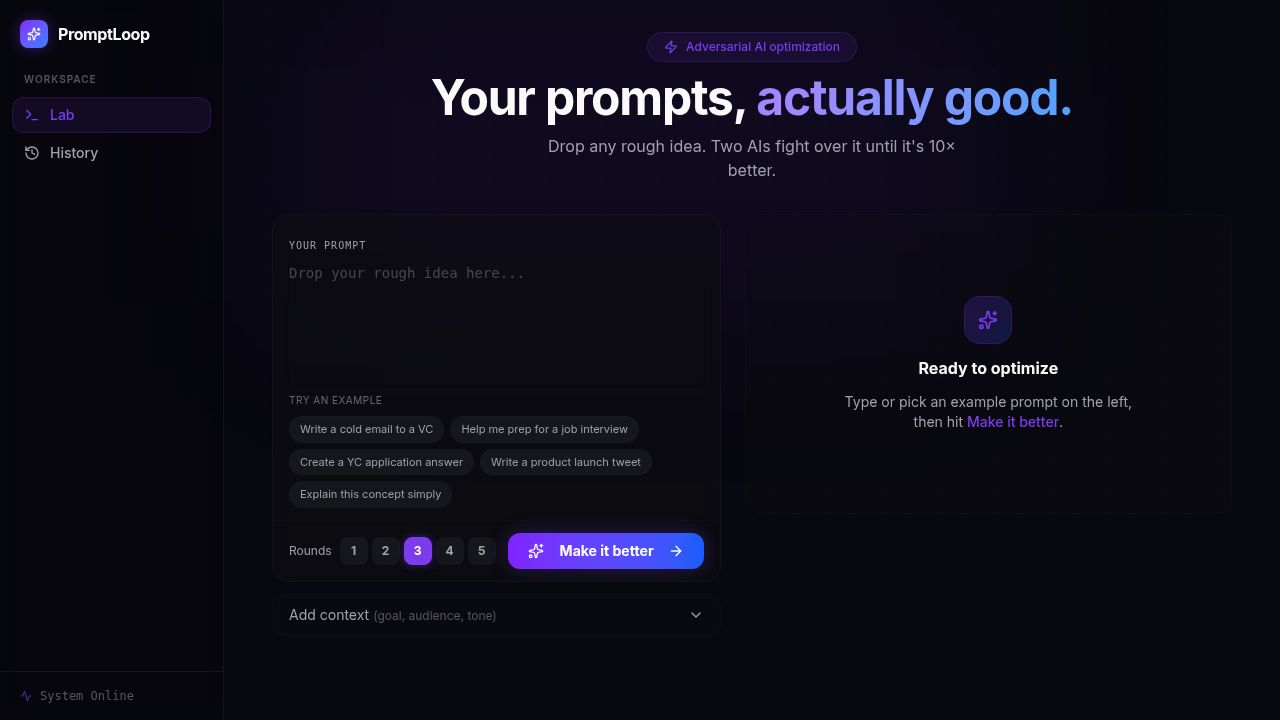
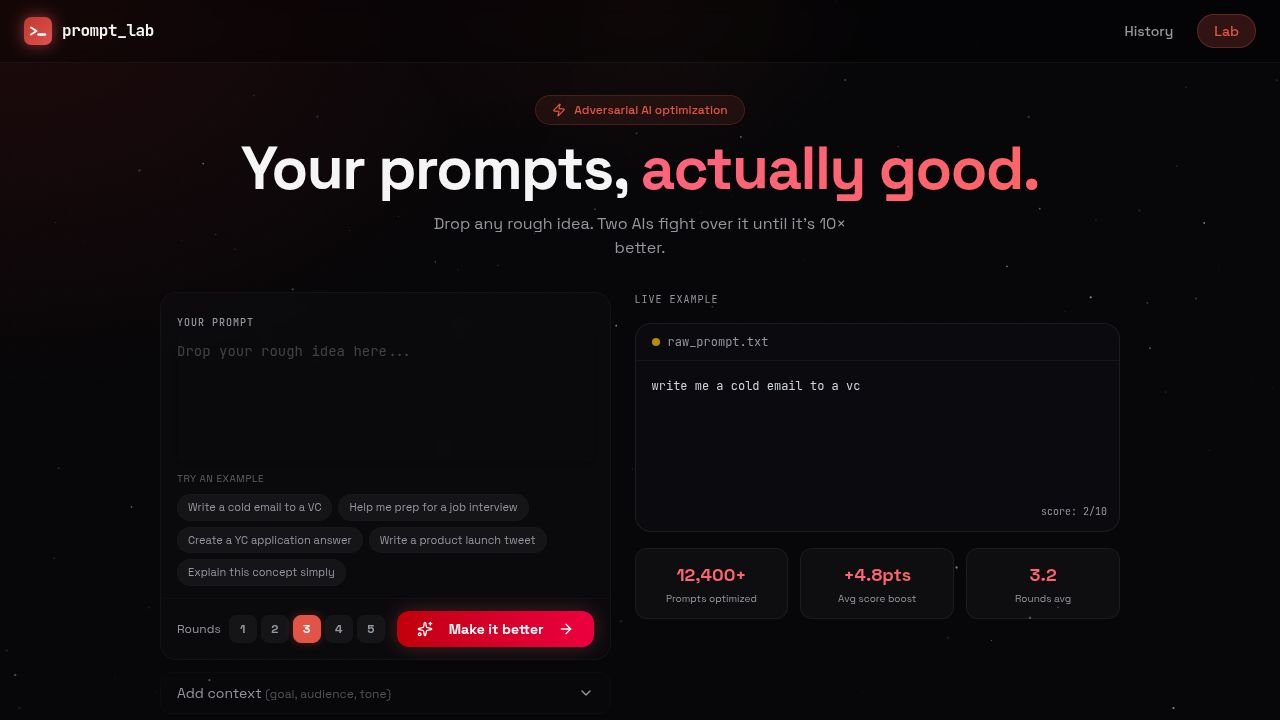
Update website theme with vibrant coral accents and a starfield background
Integrates a starfield background, updates color palettes to coral/red, changes font to Space Grotesk, and modifies various UI elements in `layout.tsx` and `home.tsx`.

Replit-Commit-Author: Agent
Replit-Commit-Session-Id: 5fdac1b4-e5b7-424d-95d1-2d4e8ffe3600
Replit-Commit-Checkpoint-Type: full_checkpoint
Replit-Commit-Event-Id: 763ea3cc-03e4-4620-966b-8acb2bd106bd
Replit-Commit-Screenshot-Url: https://storage.googleapis.com/screenshot-production-us-central1/af58edff-9f00-4c62-86c2-35f72a28d383/5fdac1b4-e5b7-424d-95d1-2d4e8ffe3600/b1TVNCj
Replit-Helium-Checkpoint-Created: true

diff --git a/artifacts/promptloop/src/pages/home.tsx b/artifacts/promptloop/src/pages/home.tsx
@@ -153,7 +153,7 @@ function ScoreRing({ score }: { score: number }) {
 
 function fireConfetti() {
   const end = Date.now() + 1200;
-  const colors = ["#0d9488", "#22d3ee", "#5eead4", "#67e8f9", "#ffffff"];
+  const colors = ["#e05252", "#c0392b", "#ff7b7b", "#ff4444", "#ffffff"];
   (function frame() {
     confetti({ particleCount: 3, angle: 60, spread: 55, origin: { x: 0 }, colors });
     confetti({ particleCount: 3, angle: 120, spread: 55, origin: { x: 1 }, colors });
@@ -303,9 +303,9 @@ export function Home() {
           <Zap className="w-3.5 h-3.5 text-primary" />
           <span className="text-xs text-primary font-medium">Adversarial AI optimization</span>
         </div>
-        <h1 className="text-4xl md:text-5xl font-black tracking-tight">
+        <h1 className="text-5xl md:text-6xl font-black tracking-tight leading-[1.05]">
           Your prompts,{" "}
-          <span className="bg-gradient-to-r from-teal-400 to-cyan-400 bg-clip-text text-transparent">
+          <span className="bg-gradient-to-r from-rose-400 to-red-400 bg-clip-text text-transparent">
             actually good.
           </span>
         </h1>
@@ -364,7 +364,7 @@ export function Home() {
                           className={cn(
                             "w-7 h-7 rounded-lg text-xs font-bold transition-all border",
                             watchRounds === n
-                              ? "bg-primary text-primary-foreground border-primary shadow-[0_0_10px_rgba(13,148,136,0.4)]"
+                              ? "bg-primary text-primary-foreground border-primary shadow-[0_0_10px_rgba(192,57,43,0.4)]"
                               : "bg-secondary/50 text-muted-foreground border-border/30 hover:bg-secondary"
                           )}
                         >
@@ -374,7 +374,7 @@ export function Home() {
                     </div>
                   </div>
                   <Button type="submit" disabled={isRunning}
-                    className="bg-gradient-to-r from-teal-600 to-cyan-500 hover:from-teal-500 hover:to-cyan-400 text-white font-bold text-sm px-5 h-9 rounded-xl shadow-[0_0_20px_rgba(20,184,166,0.3)] hover:shadow-[0_0_25px_rgba(20,184,166,0.5)] transition-all border-0"
+                    className="bg-gradient-to-r from-red-700 to-rose-600 hover:from-red-600 hover:to-rose-500 text-white font-bold text-sm px-5 h-9 rounded-xl shadow-[0_0_20px_rgba(224,82,82,0.3)] hover:shadow-[0_0_25px_rgba(224,82,82,0.5)] transition-all border-0"
                   >
                     {isRunning ? <><Loader2 className="w-3.5 h-3.5 mr-2 animate-spin" />Running...</> : <><Sparkles className="w-3.5 h-3.5 mr-2" />Make it better<ArrowRight className="w-3 h-3 ml-1.5" /></>}
                   </Button>
@@ -430,9 +430,9 @@ export function Home() {
 
           {/* Loading */}
           {isRunning && (
-            <Card className="border-primary/30 shadow-[0_0_40px_rgba(13,148,136,0.12)] relative overflow-hidden bg-card/60">
+            <Card className="border-primary/30 shadow-[0_0_40px_rgba(192,57,43,0.12)] relative overflow-hidden bg-card/60">
               <div className="absolute top-0 left-0 w-full h-0.5 bg-border/30">
-                <motion.div className="h-full bg-gradient-to-r from-teal-500 to-cyan-400"
+                <motion.div className="h-full bg-gradient-to-r from-rose-500 to-red-400"
                   animate={{ width: `${progressPct}%` }} transition={{ duration: 0.8, ease: "easeInOut" }} />
               </div>
               <CardContent className="pt-8 pb-6 flex flex-col items-center space-y-5 text-center">
@@ -495,8 +495,8 @@ export function Home() {
               <motion.div initial={{ opacity: 0, y: 16 }} animate={{ opacity: 1, y: 0 }} className="space-y-4">
 
                 {/* Final prompt card */}
-                <Card className="border-primary/40 shadow-[0_0_50px_rgba(13,148,136,0.15)] overflow-hidden bg-card">
-                  <div className="bg-gradient-to-r from-teal-500/10 to-cyan-500/10 border-b border-primary/20 px-4 py-3 flex items-center justify-between">
+                <Card className="border-primary/40 shadow-[0_0_50px_rgba(192,57,43,0.15)] overflow-hidden bg-card">
+                  <div className="bg-gradient-to-r from-rose-500/10 to-red-500/10 border-b border-primary/20 px-4 py-3 flex items-center justify-between">
                     <div className="flex items-center gap-2">
                       <Sparkles className="w-4 h-4 text-primary" />
                       <span className="font-mono font-bold text-primary text-sm">OPTIMIZED PROMPT</span>
@@ -599,7 +599,7 @@ export function Home() {
                   { label: "Rounds avg", value: "3.2" },
                 ].map(stat => (
                   <div key={stat.label} className="bg-white/[0.03] border border-white/[0.06] rounded-xl px-3 py-3">
-                    <p className="text-lg font-bold bg-gradient-to-r from-teal-400 to-cyan-400 bg-clip-text text-transparent">{stat.value}</p>
+                    <p className="text-lg font-bold bg-gradient-to-r from-rose-400 to-red-400 bg-clip-text text-transparent">{stat.value}</p>
                     <p className="text-[10px] text-muted-foreground mt-0.5">{stat.label}</p>
                   </div>
                 ))}

diff --git a/artifacts/promptloop/src/components/layout.tsx b/artifacts/promptloop/src/components/layout.tsx
@@ -1,26 +1,85 @@
+import { useEffect, useRef } from "react";
 import { Link, useLocation } from "wouter";
-import { Sparkles } from "lucide-react";
 import { cn } from "@/lib/utils";
+
+function StarField() {
+  const canvasRef = useRef<HTMLCanvasElement>(null);
+
+  useEffect(() => {
+    const canvas = canvasRef.current;
+    if (!canvas) return;
+    const ctx = canvas.getContext("2d");
+    if (!ctx) return;
+
+    const resize = () => {
+      canvas.width = window.innerWidth;
+      canvas.height = window.innerHeight;
+    };
+    resize();
+    window.addEventListener("resize", resize);
+
+    const stars = Array.from({ length: 180 }, () => ({
+      x: Math.random(),
+      y: Math.random(),
+      r: Math.random() * 1.1 + 0.2,
+      baseOpacity: Math.random() * 0.5 + 0.08,
+      phase: Math.random() * Math.PI * 2,
+      speed: Math.random() * 0.4 + 0.15,
+    }));
+
+    let raf: number;
+    let t = 0;
+
+    const draw = () => {
+      ctx.clearRect(0, 0, canvas.width, canvas.height);
+      t += 0.016;
+      for (const s of stars) {
+        const opacity = s.baseOpacity * (0.55 + 0.45 * Math.sin(t * s.speed + s.phase));
+        ctx.beginPath();
+        ctx.arc(s.x * canvas.width, s.y * canvas.height, s.r, 0, Math.PI * 2);
+        ctx.fillStyle = `rgba(255,255,255,${opacity.toFixed(3)})`;
+        ctx.fill();
+      }
+      raf = requestAnimationFrame(draw);
+    };
+
+    draw();
+    return () => {
+      window.removeEventListener("resize", resize);
+      cancelAnimationFrame(raf);
+    };
+  }, []);
+
+  return <canvas ref={canvasRef} className="fixed inset-0 pointer-events-none z-0" />;
+}
 
 export function Layout({ children }: { children: React.ReactNode }) {
   const [location] = useLocation();
 
   return (
-    <div className="flex flex-col h-screen w-full bg-[#080810] overflow-hidden text-foreground">
-      {/* Ambient glow */}
-      <div className="fixed top-0 left-1/2 -translate-x-1/2 w-[700px] h-[300px] bg-teal-500/8 blur-[100px] pointer-events-none z-0" />
+    <div className="flex flex-col h-screen w-full bg-[#070709] overflow-hidden text-foreground">
+      <StarField />
+
+      {/* Maroon radial glow — top left like OpenClaw */}
+      <div className="fixed top-0 left-0 w-[600px] h-[400px] pointer-events-none z-0"
+        style={{ background: "radial-gradient(ellipse at top left, rgba(192,30,30,0.13) 0%, transparent 70%)" }} />
+
+      {/* Subtle center glow */}
+      <div className="fixed top-0 left-1/2 -translate-x-1/2 w-[500px] h-[200px] pointer-events-none z-0"
+        style={{ background: "radial-gradient(ellipse at top, rgba(220,80,60,0.07) 0%, transparent 70%)" }} />
 
       {/* Top Nav */}
-      <header className="relative z-10 flex items-center justify-between px-6 py-3.5 border-b border-white/[0.06] bg-black/20 backdrop-blur-sm shrink-0">
+      <header className="relative z-10 flex items-center justify-between px-6 py-3.5 border-b border-white/[0.05] bg-black/30 backdrop-blur-sm shrink-0">
         <Link href="/" className="flex items-center gap-2.5">
-          <svg width="28" height="28" viewBox="0 0 28 28" fill="none" xmlns="http://www.w3.org/2000/svg" className="drop-shadow-[0_0_8px_rgba(20,184,166,0.5)]">
-            <rect width="28" height="28" rx="7" fill="url(#logoGrad)"/>
-            <path d="M7 10.5L12.5 14L7 17.5" stroke="white" strokeWidth="2" strokeLinecap="round" strokeLinejoin="round"/>
-            <path d="M14.5 17.5H21" stroke="white" strokeWidth="2.5" strokeLinecap="round"/>
+          <svg width="28" height="28" viewBox="0 0 28 28" fill="none" xmlns="http://www.w3.org/2000/svg"
+            className="drop-shadow-[0_0_8px_rgba(224,82,82,0.6)]">
+            <rect width="28" height="28" rx="7" fill="url(#logoGrad)" />
+            <path d="M7 10.5L12.5 14L7 17.5" stroke="white" strokeWidth="2" strokeLinecap="round" strokeLinejoin="round" />
+            <path d="M14.5 17.5H21" stroke="white" strokeWidth="2.5" strokeLinecap="round" />
             <defs>
               <linearGradient id="logoGrad" x1="0" y1="0" x2="28" y2="28" gradientUnits="userSpaceOnUse">
-                <stop offset="0%" stopColor="#0d9488"/>
-                <stop offset="100%" stopColor="#22d3ee"/>
+                <stop offset="0%" stopColor="#c0392b" />
+                <stop offset="100%" stopColor="#e05252" />
               </linearGradient>
             </defs>
           </svg>
@@ -48,7 +107,7 @@ export function Layout({ children }: { children: React.ReactNode }) {
       </header>
 
       {/* Grid overlay */}
-      <div className="fixed inset-0 pointer-events-none opacity-[0.02] z-0"
+      <div className="fixed inset-0 pointer-events-none opacity-[0.018] z-0"
         style={{ backgroundImage: "radial-gradient(hsl(var(--foreground)) 1px, transparent 1px)", backgroundSize: "28px 28px" }} />
 
       {/* Page content */}

diff --git a/artifacts/promptloop/src/index.css b/artifacts/promptloop/src/index.css
@@ -73,10 +73,10 @@
   --elevate-1: rgba(255,255,255, .04);
   --elevate-2: rgba(255,255,255, .09);
 
-  /* Deep dark cockpit vibe */
-  --background: 240 10% 4%;
-  --foreground: 0 0% 98%;
-  --border: 240 10% 12%;
+  /* Deep black — OpenClaw inspired */
+  --background: 220 8% 3%;
+  --foreground: 0 0% 96%;
+  --border: 220 8% 11%;
   
   --card: 240 10% 6%;
   --card-foreground: 0 0% 98%;
@@ -86,41 +86,41 @@
   --popover-foreground: 0 0% 98%;
   --popover-border: 240 10% 15%;
 
-  /* Teal/cyan lab palette */
-  --primary: 173 80% 42%;
+  /* Coral-red bold palette */
+  --primary: 5 72% 58%;
   --primary-foreground: 0 0% 100%;
   
-  --secondary: 240 10% 15%;
-  --secondary-foreground: 0 0% 98%;
+  --secondary: 220 8% 13%;
+  --secondary-foreground: 0 0% 96%;
 
-  --muted: 240 10% 12%;
-  --muted-foreground: 240 5% 65%;
+  --muted: 220 8% 10%;
+  --muted-foreground: 220 5% 60%;
 
-  --accent: 173 80% 42%;
+  --accent: 5 72% 58%;
   --accent-foreground: 0 0% 100%;
 
   --destructive: 0 62.8% 30.6%;
   --destructive-foreground: 0 0% 98%;
 
-  --input: 240 10% 15%;
-  --ring: 173 80% 42%;
+  --input: 220 8% 13%;
+  --ring: 5 72% 58%;
   
-  --sidebar: 240 10% 6%;
-  --sidebar-foreground: 0 0% 98%;
-  --sidebar-border: 240 10% 12%;
-  --sidebar-primary: 173 80% 42%;
+  --sidebar: 220 8% 4%;
+  --sidebar-foreground: 0 0% 96%;
+  --sidebar-border: 220 8% 11%;
+  --sidebar-primary: 5 72% 58%;
   --sidebar-primary-foreground: 0 0% 100%;
-  --sidebar-accent: 240 10% 15%;
-  --sidebar-accent-foreground: 0 0% 98%;
-  --sidebar-ring: 173 80% 42%;
+  --sidebar-accent: 220 8% 13%;
+  --sidebar-accent-foreground: 0 0% 96%;
+  --sidebar-ring: 5 72% 58%;
 
-  --chart-1: 173 80% 42%;
+  --chart-1: 5 72% 58%;
   --chart-2: 240 10% 40%;
   --chart-3: 240 10% 30%;
   --chart-4: 240 10% 20%;
   --chart-5: 240 10% 10%;
 
-  --app-font-sans: 'Inter', system-ui, sans-serif;
+  --app-font-sans: 'Space Grotesk', system-ui, sans-serif;
   --app-font-serif: Georgia, serif;
   --app-font-mono: 'JetBrains Mono', 'Menlo', monospace;
   --radius: 0.5rem;

diff --git a/artifacts/promptloop/index.html b/artifacts/promptloop/index.html
@@ -7,7 +7,7 @@
     <link rel="icon" type="image/svg+xml" href="/favicon.svg" />
     <link rel="preconnect" href="https://fonts.googleapis.com">
     <link rel="preconnect" href="https://fonts.gstatic.com" crossorigin>
-    <link href="https://fonts.googleapis.com/css2?family=Inter:wght@400;500;600;700&display=swap" rel="stylesheet">
+    <link href="https://fonts.googleapis.com/css2?family=Space+Grotesk:wght@400;500;600;700&family=JetBrains+Mono:wght@400;500;600;700&display=swap" rel="stylesheet">
   </head>
   <body>
     <div id="root"></div>
